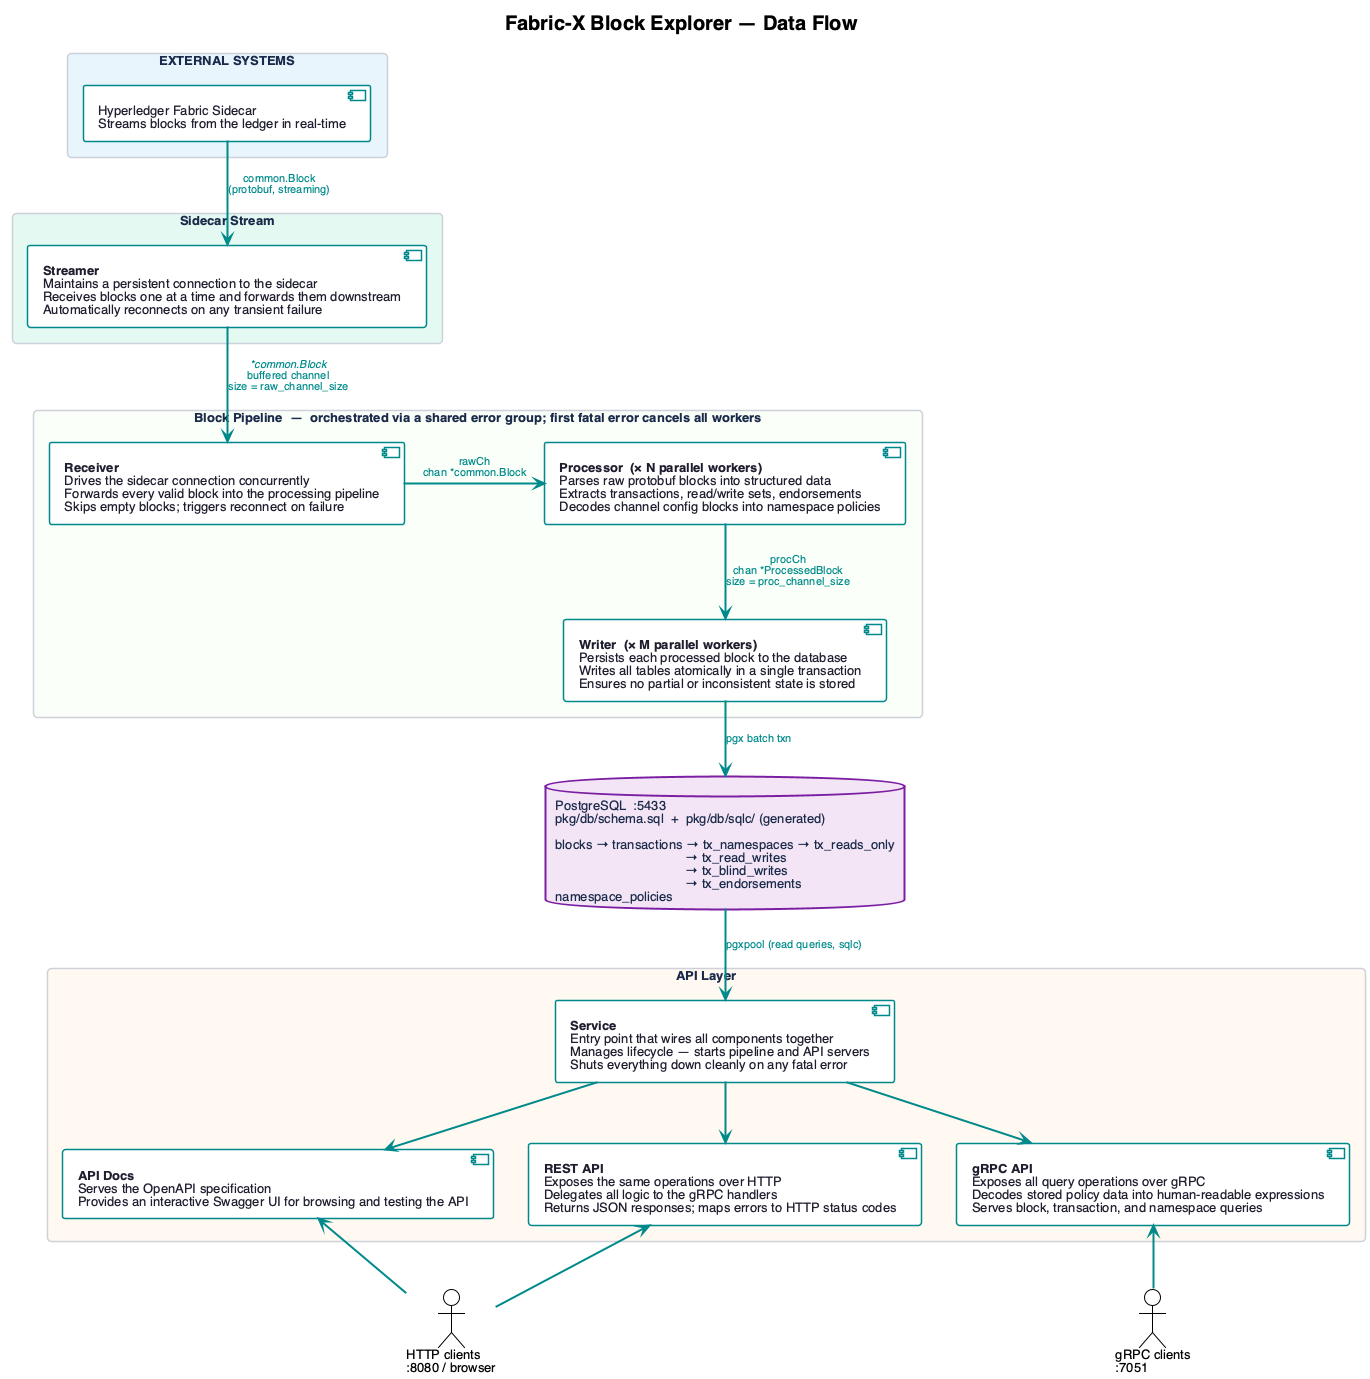
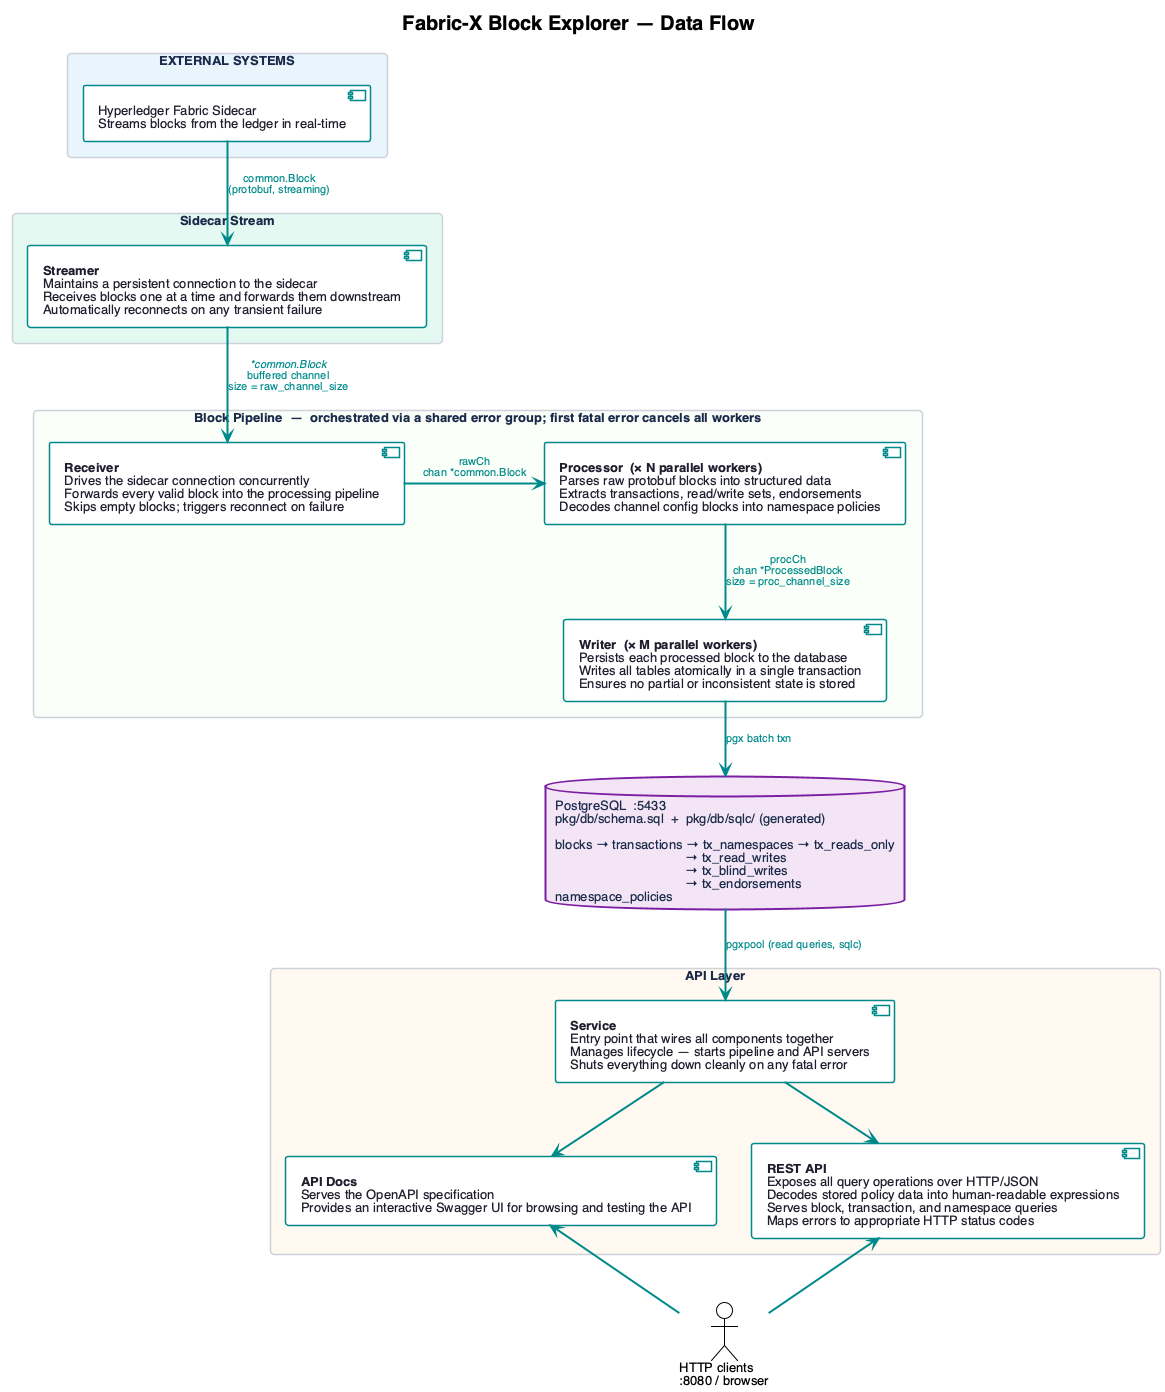
fix(docs): remove gRPC references and align with REST-only API

diff --git a/README.md b/README.md
@@ -7,7 +7,7 @@ A lightweight block explorer for Hyperledger Fabric networks. It ingests blocks 
 - Go 1.26+
 - Docker with either `docker compose` or `docker-compose` available (for `make run` / DB tests)
 - `curl` and `python3` for `make smoke-live`
-- Access to a running Fabric-X sidecar (gRPC) and a PostgreSQL instance
+- Access to a running Fabric-X sidecar and a PostgreSQL instance
 
 ## Configuration
 
@@ -20,7 +20,7 @@ Explorer reads a YAML config file (for example `config.yaml`) matching the struc
 - `sidecar.channel_id`, `sidecar.start_block`, `sidecar.end_block`, `sidecar.max_reconnect_wait`, `sidecar.retry`
 - `buffer.raw_channel_size`, `buffer.proc_channel_size`
 - `workers.processor_count`, `workers.writer_count`
-- `server.rest.endpoint`: REST bind host/port
+- `server.rest.endpoint`: REST bind address (host/port)
 - `server.rest.read_header_timeout`, `server.rest.default_tx_limit`
 
 A working example is in `config.local.yaml`.
@@ -53,7 +53,7 @@ make run-down
 
 ```bash
 # Recreate explorer + DB, wait for REST readiness,
-# call representative live APIs, print results, and fail on errors.
+# call all REST endpoints, print results, and fail on errors.
 make smoke-live
 
 # Optional helpers
@@ -72,6 +72,8 @@ The REST server is defined in `pkg/api/rest.go`. Endpoints:
 - `GET /blocks/{block_num}?tx_limit=&tx_offset=` – block detail with paginated transactions
 - `GET /transactions/{tx_id}` – transaction detail by tx ID (hex string)
 - `GET /namespaces/{namespace}/policies` – namespace policies with decoded fields
+- `GET /openapi.yaml` – OpenAPI 3.0 specification
+- `GET /docs` – interactive Swagger UI
 
 All responses are JSON with native Go types defined in `pkg/api/types.go`.
 
@@ -98,4 +100,4 @@ make lint
 make smoke-live
 ```
 
-Unit tests for the API layer live under `pkg/api/`.
+Policy decoder tests live under `pkg/api/`.